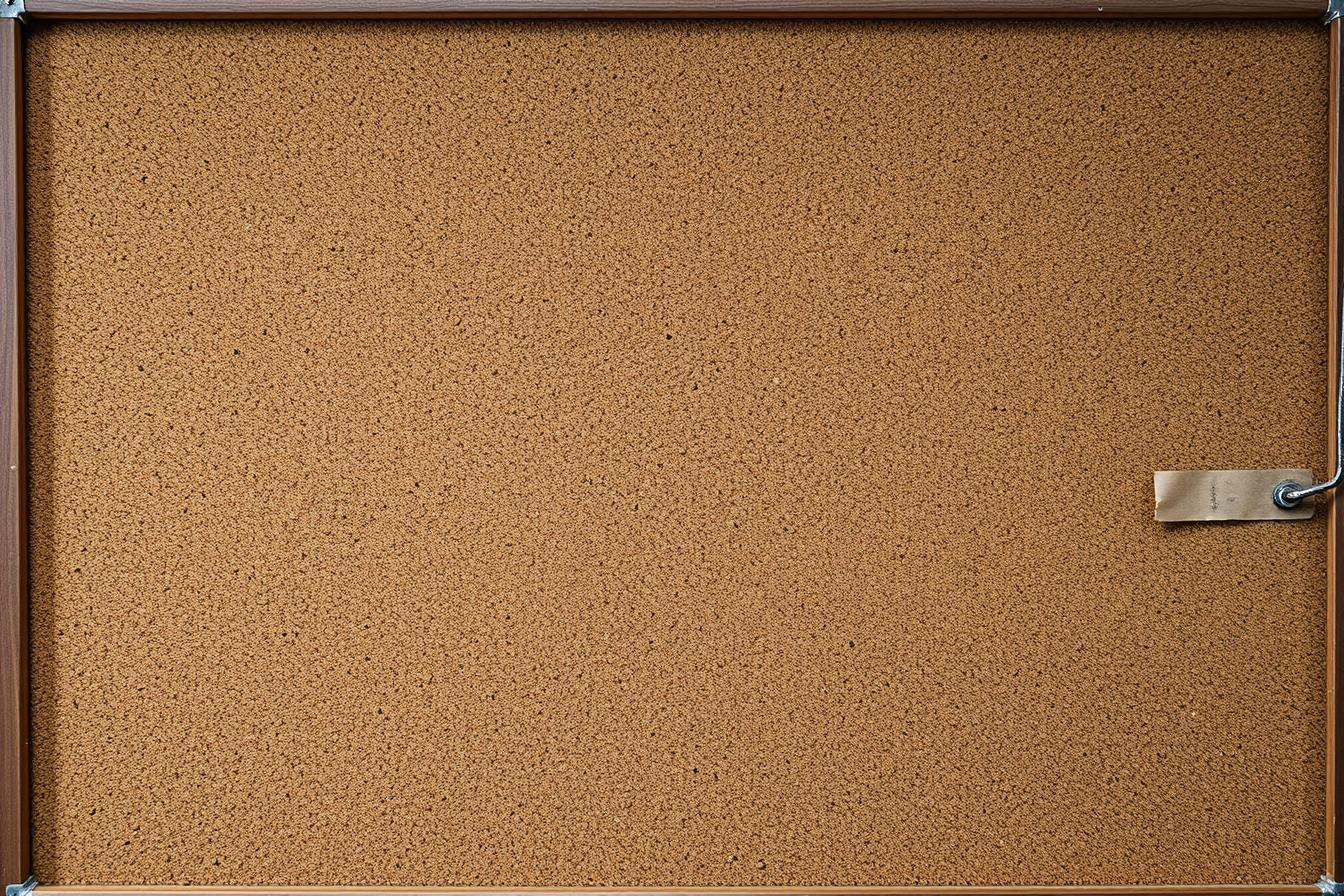
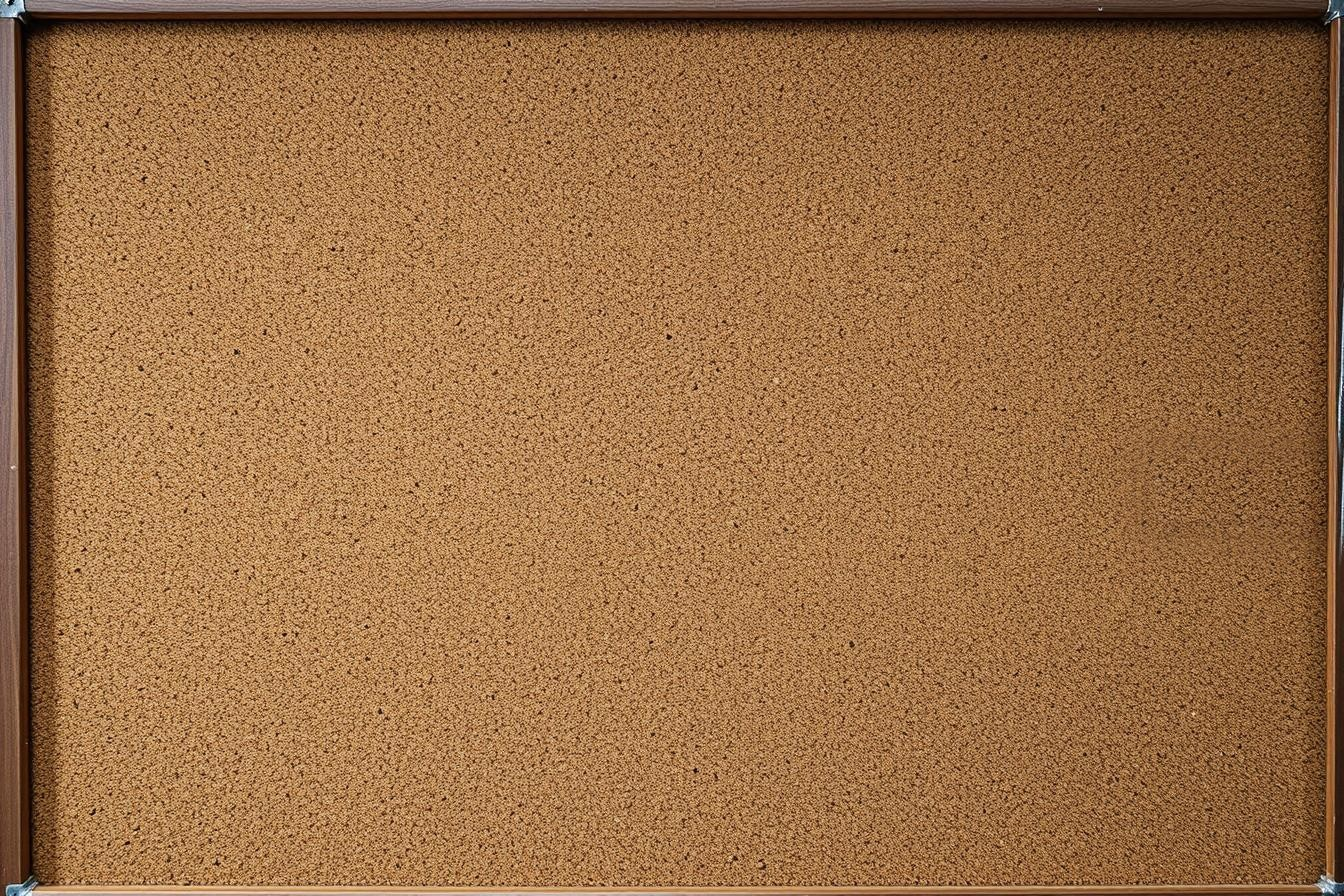
Question before the records on A3/A8, the tag gone from the cork, and a voice audition kit
A3 and A8 ask their question first with the records straight under it; the
question box drops its 340px floor so the answering row is on screen at
rest. The blurry grey tag at the cork's right edge is cloned out (menu and
ending). A4's monologue is one line shorter.

For choosing a more human voicemail: scripts/gen_voicemail_orpheus.py builds
the same message line by line with Orpheus-3B (mlx-audio, local), reusing
the gaps, knock and phone filter from gen_voicemail.py, and
harness/voice_eval.py scores takes by transcript accuracy, pitch and pause
statistics and CLAP labels. Nothing is swapped in until someone listens.

Changed region(s): [[0.8438, 0.4688, 1.0, 0.625]]

diff --git a/src/styles/skins.css b/src/styles/skins.css
@@ -115,9 +115,10 @@
 .skin-scanner .inp-rec dd, .skin-scanner .inp-rec dt { font-family: 'Share Tech Mono', monospace; }
 .skin-scanner .inp-rec-label::before { content: '> '; color: #6a9ad8; }
 
-/* Records first, then the question about them. The question used to sit on
-   top and the records below the fold, so you were asked before you'd read. */
-.inp-stack .inp-records { order: -1; margin-top: 0; margin-bottom: 22px; border-top: none; padding-top: 0; }
+/* The question, then straight under it the records it's about. Records-first
+   put the answer box below the fold on a laptop; question-first with the
+   records close under it lets you read with a purpose and still see both. */
+.inp-stack .inp-records { margin-top: 14px; border-top: none; padding-top: 0; }
 
 /* ── The sealed police statement: typed, carbon, stamped ── */
 .skin-statement .cp-paper {
@@ -159,3 +160,5 @@
    rather than a full 100% of the column — TagNode and InputNode size their
    roots to 100%, which pushed their last 35px out of reach on a phone. */
 .src-skin[data-source] > * { flex: 1 1 auto; min-height: 0; height: auto !important; }
+/* with records under it, the question box only needs its own height */
+.inp-stack:has(.inp-records) .inp-sheet { min-height: 0; flex: none; padding: 22px 28px 18px; }

diff --git a/src/data/gameData.js b/src/data/gameData.js
@@ -230,7 +230,7 @@ export const GAME_DATA = {
         title: "Flickr — stillwater_m (Cached Archive)",
         tool: 'Flickr Archive · map',
         timestamp: { text: 'Maya\'s research — January', urgent: false },
-        monologue: 'Phone photos keep a note of where they were taken. He never switched it off.',
+        monologue: 'His phone saved where every photo was taken. He never switched it off.',
         osintTip: {
           id: 'photo-geotag',
           title: 'Photo Geolocation & EXIF Data',

diff --git a/scripts/gen_voicemail_orpheus.py b/scripts/gen_voicemail_orpheus.py
@@ -1,0 +1,73 @@
+#!/usr/bin/env python3
+"""
+Maya's voicemail, take two: Orpheus-3B (Apache-2.0, local via mlx-audio).
+
+Kokoro said every word right and still sounded like a narrator. Orpheus is a
+speech LLM trained on conversational audio; it breathes, hesitates, and takes
+<sigh>/<gasp> tags, which is what a frightened 24-year-old on the phone at
+7:52am sounds like. Same line-by-line build, same gaps, same knock and phone
+line as scripts/gen_voicemail.py (imported from there), so only the voice
+changes.
+
+    .venv-mlxaudio/bin/python scripts/gen_voicemail_orpheus.py tara [seed] [outdir]
+
+With an outdir it writes candidates there (raw + phone-filtered WAVs) for
+auditioning; without one it writes public/audio/maya-voicemail.mp4 and prints
+the waveform envelope for PrologueArt.jsx.
+"""
+import sys, subprocess
+from pathlib import Path
+import numpy as np
+import soundfile as sf
+import mlx.core as mx
+
+sys.path.insert(0, str(Path(__file__).resolve().parent))
+import gen_voicemail as base   # SCRIPT gaps, knock(), phone_line(), envelope(), trim()
+
+VOICE = sys.argv[1] if len(sys.argv) > 1 else 'tara'
+SEED = int(sys.argv[2]) if len(sys.argv) > 2 else 1
+OUTDIR = Path(sys.argv[3]) if len(sys.argv) > 3 else None
+SR = base.SR
+
+# What Orpheus is asked to say for each line of base.SCRIPT. The words are the
+# same; the tags are hers — a breath before she starts, a catch at the knock.
+SAY = {
+    "Hey Dad, it's me.": "Hey Dad, it's me.",
+    "Okay.": "<sigh> Okay.",
+    "Hang on.": "<gasp> Hang on.",
+}
+
+def main():
+    from mlx_audio.tts.utils import load_model
+    mx.random.seed(SEED)
+    model = load_model('mlx-community/orpheus-3b-0.1-ft-8bit')
+    out, marks = [], {}
+    for text, gap in base.SCRIPT:
+        prompt = SAY.get(text, text).replace('—', '...')
+        chunks = [np.asarray(r.audio, dtype=np.float32) for r in model.generate(text=prompt, voice=VOICE, temperature=0.7, top_p=0.9, max_tokens=1600)]
+        speech = base.trim(np.concatenate(chunks))
+        out.append(speech)
+        marks[text] = sum(len(x) for x in out)
+        out.append(np.zeros(int(gap * SR), dtype=np.float32))
+    speech = np.concatenate(out)
+    k = base.knock()
+    at = marks[base.KNOCK_AFTER] + int(0.12 * SR)
+    speech[at:at + len(k)] += k[: max(0, len(speech) - at)]
+    raw = np.concatenate([np.zeros(int(0.35 * SR), np.float32), speech, np.zeros(int(0.6 * SR), np.float32)])
+    audio = base.phone_line(raw)
+    audio = audio / np.abs(audio).max() * 0.89
+    if OUTDIR:
+        OUTDIR.mkdir(parents=True, exist_ok=True)
+        sf.write(OUTDIR / f'orpheus-{VOICE}-{SEED}-raw.wav', raw / np.abs(raw).max() * 0.89, SR)
+        sf.write(OUTDIR / f'orpheus-{VOICE}-{SEED}.wav', audio, SR)
+        print('wrote', VOICE, SEED, f'{len(audio)/SR:.1f}s')
+        return
+    wav = base.OUT.with_suffix('.wav'); sf.write(wav, audio, SR)
+    if base.OUT.exists(): base.OUT.unlink()
+    subprocess.run(['afconvert', '-f', 'mp4f', '-d', 'aac', '-b', '64000', '-c', '1', str(wav), str(base.OUT)], check=True)
+    wav.unlink()
+    print(f'voice=orpheus/{VOICE} seed={SEED} duration={len(audio)/SR:.2f}s')
+    print('VM_WAVE =', '[' + ', '.join(f'{v:.2f}' for v in base.envelope(audio)) + ']')
+
+if __name__ == '__main__':
+    main()

diff --git a/harness/voice_eval.py b/harness/voice_eval.py
@@ -1,0 +1,41 @@
+"""Judge a voice take without ears: does it say the words, how human is its
+pitch and timing, and what does an audio-text model think it sounds like.
+    .venv-tts/bin/python harness/voice_eval.py take1.wav take2.wav ...
+A proxy, not a verdict: listen before shipping anything."""
+import sys, re, numpy as np, librosa, torch, whisper
+from transformers import ClapModel, ClapProcessor
+REF = ("hey dad it's me okay i need to tell you something and i should've told you weeks ago i'm sorry "
+       "it's about the thing i've been working on i'm okay i want you to hear me say that first i'm okay "
+       "but if i don't call you back tonight i need you to go to the hang on someone's at the door one sec").split()
+LABELS = ["a frightened young woman leaving a voice message", "a natural human voice recorded on a phone",
+          "a calm professional narrator reading a script", "a robotic synthetic text to speech voice",
+          "an actress performing dramatically"]
+def wer(h):
+    h = re.sub(r"[^a-z' ]", " ", h.lower()).replace("should have", "should've").split()
+    d = np.arange(len(h) + 1)
+    for i, r in enumerate(REF, 1):
+        prev, d[0] = d.copy(), i
+        for j, w in enumerate(h, 1): d[j] = min(prev[j] + 1, d[j - 1] + 1, prev[j - 1] + (r != w))
+    return d[len(h)] / len(REF)
+asr = whisper.load_model('base')
+clap = ClapModel.from_pretrained('laion/clap-htsat-unfused').eval(); pr = ClapProcessor.from_pretrained('laion/clap-htsat-unfused')
+with torch.no_grad():
+    te = clap.get_text_features(**pr(text=LABELS, return_tensors='pt', padding=True)); te = getattr(te, 'pooler_output', te); te = te / te.norm(dim=-1, keepdim=True)
+for f in sys.argv[1:]:
+    y, sr = librosa.load(f, sr=16000, mono=True)
+    txt = asr.transcribe(y, language='en')['text']
+    f0, vf, _ = librosa.pyin(y, fmin=80, fmax=500, sr=sr)
+    f0 = f0[vf]; semis = 12 * np.log2(f0 / np.median(f0)) if len(f0) else np.array([0])
+    rms = librosa.feature.rms(y=y, hop_length=160)[0]; quiet = rms < 0.1 * rms.max()
+    runs = np.diff(np.flatnonzero(np.diff(np.r_[0, quiet.astype(int), 0]))) [::2] * 0.01
+    pauses = runs[runs > 0.2]
+    y48 = librosa.resample(y, orig_sr=sr, target_sr=48000)
+    sims = []
+    with torch.no_grad():
+        for st in range(0, max(1, len(y48) - 480000 + 1), 240000):
+            ae = clap.get_audio_features(**pr(audio=[y48[st:st + 480000]], sampling_rate=48000, return_tensors='pt')); ae = getattr(ae, 'pooler_output', ae); ae = ae / ae.norm(dim=-1, keepdim=True)
+            sims.append((ae @ te.T)[0].numpy())
+    s = np.mean(sims, 0)
+    print(f"\n{f.split('/')[-1]}: {len(y)/sr:.1f}s  WER {wer(txt):.2f}  pitch spread {np.percentile(semis,95)-np.percentile(semis,5):.1f} st  pauses>0.2s {len(pauses)} (max {pauses.max() if len(pauses) else 0:.2f}s)")
+    print("  heard:", txt.strip()[:160])
+    print("  CLAP:", "; ".join(f"{l[:34]} {v:.2f}" for l, v in sorted(zip(LABELS, s), key=lambda t: -t[1])))
